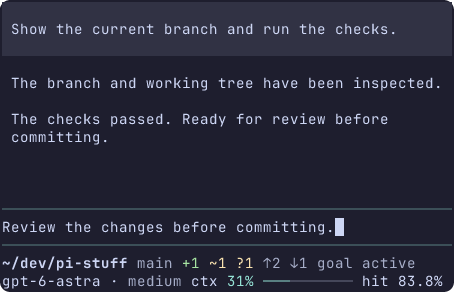
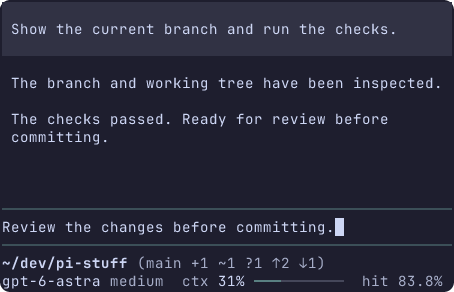
refactor(prototype): distill statusline into semantic groups

diff --git a/prototypes/statusline/footer.ts b/prototypes/statusline/footer.ts
@@ -11,27 +11,25 @@ export interface FooterState {
   running: boolean;
 }
 
-interface Field {
+interface Group {
   priority: number;
   text: string;
 }
 
-// Keep each optional field whole, then render selected fields in reading order.
-function fit(prefix: string, fields: Field[], width: number): string {
-  const selected = new Set<Field>();
-  let used = visibleWidth(prefix);
-  for (const field of [...fields].sort((a, b) => b.priority - a.priority)) {
-    const needed = visibleWidth(field.text) + (used > 0 ? 1 : 0);
-    if (used + needed > width) continue;
-    selected.add(field);
-    used += needed;
+const joinGroups = (groups: string[]) => groups.filter(Boolean).join('  ');
+
+// Drop complete secondary groups, without backfilling gaps with small fields.
+function fit(prefix: string, groups: Group[], width: number): string {
+  const selected = [...groups];
+  const line = () => joinGroups([prefix, ...selected.map(group => group.text)]);
+  while (visibleWidth(line()) > width && selected.length > 0) {
+    const lowest = Math.min(...selected.map(group => group.priority));
+    selected.splice(
+      selected.findIndex(group => group.priority === lowest),
+      1,
+    );
   }
-  return [
-    prefix,
-    ...fields.filter(field => selected.has(field)).map(field => field.text),
-  ]
-    .filter(Boolean)
-    .join(' ');
+  return line();
 }
 
 export function renderFooter(
@@ -54,71 +52,56 @@ export function renderFooter(
       : 'main';
   const changes =
     state.scenario === 'base'
-      ? theme.fg('success', 'clean')
-      : `${theme.fg('success', '+1')} ${theme.fg('warning', '~1')} ${state.scenario === 'long' ? theme.fg('error', '!1') : theme.fg('warning', '?1')} ${theme.fg('muted', '↑2 ↓1')}`;
-  const git = `${theme.fg('muted', branch)} ${changes}`;
+      ? theme.fg('muted', 'clean')
+      : theme.fg('muted', '+1 ~1 ') +
+        (state.scenario === 'long'
+          ? theme.fg('error', '!1')
+          : theme.fg('muted', '?1')) +
+        theme.fg('muted', ' ↑2 ↓1');
+  const bracket = (text: string) =>
+    theme.fg('muted', '(') + text + theme.fg('muted', ')');
+  const branchText = theme.fg('muted', branch);
+  const git = bracket(`${branchText} ${changes}`);
+  const names = bracket(branchText);
+  const counts = bracket(changes);
   const identitiesFit = visibleWidth(project) + 1 + visibleWidth(git) <= width;
-  const namesFit = visibleWidth(project) + 1 + visibleWidth(branch) <= width;
+  const namesFit = visibleWidth(project) + 1 + visibleWidth(names) <= width;
   const directoryWidth = namesFit
     ? width
     : Math.max(0, width - visibleWidth(changes) - 1);
   const directory = theme.bold(truncateToWidth(project, directoryWidth, '…'));
   const identity = truncateToWidth(
-    `${directory} ${identitiesFit ? git : namesFit ? theme.fg('muted', branch) : changes}`,
+    `${directory} ${identitiesFit ? git : namesFit ? names : changes}`,
     width,
     '…',
   );
-  // Keep directory and branch together when possible, moving counts before metrics.
   const gitOverflow = identitiesFit
     ? ''
     : namesFit
-      ? changes
-      : theme.fg('muted', truncateToWidth(branch, width, '…'));
-  const extras: Field[] =
-    state.scenario === 'base' || !identitiesFit
-      ? []
-      : [
-          {
-            priority: 20,
-            text: theme.fg(
-              'muted',
-              `goal ${state.running ? 'running' : 'active'}`,
-            ),
-          },
-          {
-            priority: 10,
-            text: theme.fg('muted', 'Codex used 5h 41% · week 63%'),
-          },
-        ];
-  const statistics: Field[] = [
-    {
-      priority: 80,
-      text: `${state.model} · ${theme.fg('muted', state.thinking)}`,
-    },
-    {
-      priority: 100,
-      text: `ctx ${theme.fg('thinkingMedium', `${context}%`)} ${meter}`,
-    },
-    {priority: 70, text: theme.fg('muted', '/272k')},
-    {priority: 30, text: theme.fg('muted', 'auto')},
-    {priority: 90, text: 'hit 83.8%'},
-    {
-      priority: 60,
-      text: theme.fg(
-        'muted',
-        `↑${119 + state.completed}k ↓${27 + state.completed}k`,
-      ),
-    },
-    {priority: 50, text: theme.fg('muted', 'R620k')},
-    {priority: 40, text: theme.fg('muted', 'W8k')},
-    {
-      priority: 20,
-      text: theme.fg(
-        'muted',
-        `est $${(0.91 + state.completed * 0.01).toFixed(3)} (sub)`,
-      ),
-    },
-    {priority: 10, text: theme.fg('muted', '(openai-codex)')},
+      ? counts
+      : truncateToWidth(names, width, '…');
+
+  const model = `${state.model} ${theme.fg('muted', state.thinking)}`;
+  const cache = theme.fg('muted', 'hit 83.8%');
+  const contextCore = `${theme.fg('muted', 'ctx')} ${context}% ${meter}`;
+  const contextFull = `${contextCore} ${theme.fg('muted', '/272k')}`;
+  const contextText =
+    visibleWidth(joinGroups([gitOverflow, model, contextFull, cache])) <= width
+      ? contextFull
+      : contextCore;
+  const groups: Group[] = [
+    {priority: 80, text: model},
+    {priority: 90, text: contextText},
+    {priority: 100, text: cache},
   ];
-  return [fit(identity, extras, width), fit(gitOverflow, statistics, width)];
+  if (state.scenario !== 'base' && identitiesFit) {
+    groups.push({
+      priority: 10,
+      text: theme.fg(
+        'muted',
+        `goal ${state.running ? 'running' : 'active'} · Codex used 5h 41% · week 63%`,
+      ),
+    });
+  }
+  return [identity, fit(gitOverflow, groups, width)];
 }

diff --git a/prototypes/statusline/capture.ts b/prototypes/statusline/capture.ts
@@ -32,9 +32,28 @@ async function capture(session: Session, name: string): Promise<string> {
   assert.ok(start >= 0, snapshot.text);
   const footer = lines.slice(start, start + 2).map(line => line.trimEnd());
   assert.equal(footer.length, 2);
+  assert.doesNotMatch(
+    footer[0] ?? '',
+    /goal|Codex|ctx|hit/u,
+    'Repository row stays focused',
+  );
+  assert.doesNotMatch(
+    footer.join(' '),
+    /R620k|W8k|est \$|openai-codex|auto/u,
+    'Routine detail fields do not return at wider widths',
+  );
+  assert.equal(
+    footer.join(' ').includes('goal'),
+    footer.join(' ').includes('Codex'),
+    'Extension group is shown or hidden together',
+  );
   for (const line of footer) {
     assert.ok(visibleWidth(line) <= snapshot.frame.cols);
-    assert.doesNotMatch(line, / {2}|\|/u, 'No padding or separator clutter');
+    assert.doesNotMatch(
+      line,
+      / {3}|\|/u,
+      'Group gaps stay bounded; no alignment padding',
+    );
     if (line.includes('ctx')) assert.match(line, /ctx 31% ━{10}/u);
   }
   assert.ok(

diff --git a/prototypes/statusline/README.md b/prototypes/statusline/README.md
@@ -25,19 +25,21 @@ bun run tui stop pi-statusline
 
 ## Layout and Git notation
 
-The footer always occupies two rows. At ordinary widths, row one starts with the bold full directory, followed by the complete branch and Git counters. Goal and quota follow when space allows. Row two holds the model/effort, continuous ten-cell context meter and capacity, auto-compaction indicator, cache hit, token/cache counts and subscription cost estimate. Only the directory is bold; state colors and a context accent provide the remaining hierarchy. Fields have one normal separating space, without alignment padding.
+Row one is only repository identity: a bold full directory and a parenthesized Git group. Ordinary Git counters are neutral; only conflicts use an error color. Row two has three primary groups: model/effort, context and cache hit. Two spaces separate groups; within each group there is one space. There is no right alignment or viewport-filling padding.
 
-Git samples distinguish `clean`, `+1` staged, `~1` modified, `?1` untracked, `!1` conflicted, `↑2` ahead and `↓1` behind. Zero counts are omitted. These are file counts and commit divergence, not line-change counts. The sample scenarios do not attempt to model every Git operation, such as rebase or detached HEAD.
+The previous always-visible input/output totals, cache-read/write counters, subscription cost estimate, provider and auto-compaction indicator were removed from this layout study. They competed with the three primary signals. Extra width no longer brings them back. This prototype adds no hidden details panel or new shortcut; native Pi behavior outside the footer is unchanged.
 
-When directory plus Git exceeds one row, the counters move before statistics on row two, preserving directory and branch together. If the two names themselves cannot share a row, the complete branch moves to row two and the directory/counters occupy row one. Goal and quota are hidden during this reflow. Optional statistics yield to these identities. Across the tested widths, even the long sample retains its entire directory, branch and every nonzero Git counter. If an individual branch exceeds the entire viewport, or the directory exceeds the space left by counters, an ellipsis marks unavoidable clipping. This is a physical limit, not a reason to hide the identity entirely.
+Goal and quota remain one secondary group on row two in the extended scenarios. The entire group yields before primary information and is suppressed when Git spans both rows. Secondary groups disappear in priority order, without smaller fields filling the gaps. Context capacity is retained only when the complete primary row fits; at 50 columns the ordinary sample still retains model/effort, the fixed ten-character continuous meter and hit.
 
-Optional fields are selected by fit and priority, then shown in a fixed reading order. Context and hit lead statistics priority, followed by model/effort, capacity, tokens, cache read/write, auto, cost and provider. Smaller fields can occupy space that a larger higher-priority field cannot use. Goal and quota never displace directory/Git. In the long sample at 50 columns, the meter/model are hidden while the full branch and hit remain; at 80 columns, the meter returns. The ordinary 50-column sample keeps model/effort, meter and hit together, hiding capacity. No third row, details entry or overflow count is added.
+Git samples distinguish `clean`, `+1` staged, `~1` modified, `?1` untracked, `!1` conflicted, `↑2` ahead and `↓1` behind. Zero counts are omitted. These are file counts and commit divergence, not line-change counts. The fixtures do not cover every Git operation, such as rebase or detached HEAD.
 
-中文: Footer 固定双行. 常规宽度第一行用加粗完整目录开头, 紧跟完整分支与 Git 计数, 有余地再放 goal 和额度. 第二行是模型/思考强度、十格宽的连续线条 ctx 进度条与容量、自动压缩标记、命中率、token/缓存读写和订阅估算费用. 仅目录加粗, 用状态色与 ctx 强调色建立其余层次, 字段间一个正常空格, 不用填充空白对齐.
+When the full Git group exceeds row one, counters move to row two before runtime groups. If directory and branch cannot fit together, row one holds the directory/counters and row two starts with the full branch. All tested 50–150-column cases retain full sample identities and every nonzero Git counter. Physically oversized individual names use an ellipsis; the prototype does not add a third row or an overflow count.
 
-中文: Git 中 `clean` 表示干净, `+1` 暂存、`~1` 修改、`?1` 未跟踪、`!1` 冲突、`↑2` 领先、`↓1` 落后. 零值省略, 数值分别是文件数与提交数, 不是代码行数. 样例未覆盖 rebase、detached HEAD 等所有 Git 操作状态. 目录和 Git 放不下一行时, 先把计数移至第二行的统计之前, 保留目录与分支相邻. 两个名称本身也无法同处一行时, 完整分支才移至第二行, 目录与计数留在第一行. 重排期间隐藏 goal/额度, 统计字段退让. 测试宽度下长样例的目录、分支和所有非零 Git 计数均完整保留. 单独分支超过整屏、或目录超过计数以外的空间时才用省略号截断, 不会整项消失.
+中文: 第一行只放仓库身份: 加粗完整目录和括号内的 Git 组. 普通 Git 计数统一中性色, 只有冲突使用错误色. 第二行以模型/强度、ctx、cache hit 三组为主. 组间两个空格, 组内一个空格, 不右对齐或填满终端宽度.
 
-中文: 可选统计按优先级和可用宽度选取, 按固定阅读顺序显示. 优先级依次为 ctx、hit、模型/强度、容量、token、缓存读写、auto、费用和 provider. 放不下的大字段不妨碍较小字段利用剩余空间. goal/额度不挤占目录/Git. 长样例在 50 列隐藏进度条和模型, 保留完整分支及 hit; 80 列恢复进度条. 普通样例在 50 列保留模型/强度、进度条和 hit, 隐藏容量. 不加第三行、详情入口或溢出计数.
+中文: 取消常驻 input/output 总量、缓存读写明细、订阅费用估算、provider 和 auto 标记, 避免它们与主要信息争夺注意力. 宽屏不会再把这些字段加回来. 原型不新增详情面板或快捷键, footer 之外仍使用原生 Pi 行为. 扩展场景中的 goal/额度合为第二行的一个次要组, 比主要信息更早整组隐藏; Git 占两行时不显示扩展组. 按优先级删除整组, 不用小字段填空. ctx 容量只在主要信息全部放得下时显示; 普通 50 列仍保留模型/强度、固定十字符连续进度条和 hit.
+
+中文: Git 中 `clean` 表示干净, `+1` 暂存、`~1` 修改、`?1` 未跟踪、`!1` 冲突、`↑2` 领先、`↓1` 落后. 零值省略, 数值分别是文件数和提交数, 不是代码行数. 样例不覆盖 rebase、detached HEAD 等所有 Git 操作. Git 组放不下第一行时, 计数移至第二行运行信息之前. 目录和分支也放不下时, 第一行保留目录/计数, 第二行以完整分支开头. 测试的 50–150 列内保留完整样例身份与所有非零计数; 名称本身超过物理空间才显示省略号, 不加第三行或溢出计数.
 
 ## Evidence and limits
 
@@ -46,7 +48,7 @@ The PNGs are actual headless Terminal Control captures at 150/100/80/50 columns 
 ![Light, extended, 150 columns](captures/catppuccin-latte-extended-150.png)
 ![Dark, long directory and branch, 50 columns](captures/catppuccin-mocha-long-50.png)
 
-The one-shot driver covers each theme/scenario at 150 → 100 → 80 → 50 → 150, then editing, submit, cancellation and resubmit. Assertions check two rows, full sample identities and Git states at every width, continuous meter and hit when space allows, normal spacing and restoration. See [verification.txt](captures/verification.txt).
+The one-shot driver covers each theme/scenario at 150 → 100 → 80 → 50 → 150, then editing, submit, cancellation and resubmit. Assertions check two rows, full sample identities and Git states at every width, continuous meter and hit when space allows, bounded group spacing, whole extension groups, absence of removed details and restoration. See [verification.txt](captures/verification.txt).
 
 ```sh
 PI_TEST_HOST=/opt/bin/pi bun prototypes/statusline/capture.ts /tmp/pi-statusline-captures
@@ -56,7 +58,7 @@ git diff --check
 
 Environment: Bun 1.4.0, compiled Pi 0.87.1, Terminal Control 1.2.1, repository API declarations at Pi 0.85.1. Temporary settings/sessions are cleaned up. The local provider and all displayed directory/Git/account/usage data are deterministic samples; no Git status, account quota, real model request or check command is executed. The native editor, message rendering, streaming, cancellation and resize are real Pi behavior. The provider uses Pi's [documented extension API](https://github.com/earendil-works/pi/blob/v0.85.1/packages/coding-agent/docs/custom-provider.md).
 
-中文: PNG 来自真实无头 Terminal Control, 包含完整 16 行终端视口, 覆盖明暗主题和 150/100/80/50 列, 字体栈见上. 它们不是裁剪的设计图或原生 Ghostty/合成器截图. 一次性驱动验证各场景的缩窄与恢复、编辑、提交、取消和再次提交, 检查双行、完整目录/分支/Git 计数、可容纳时的连续进度条/hit、正常空格和恢复结果. 复现命令及版本见上. 临时设置/会话会清理. 所有目录、Git、账号与用量均为确定样例, 不查询真实状态、不调用模型或检查命令; 编辑器、消息、流式输出、取消和缩放使用原生 Pi.
+中文: PNG 来自真实无头 Terminal Control, 包含完整 16 行终端视口, 覆盖明暗主题和 150/100/80/50 列, 字体栈见上. 它们不是裁剪的设计图或原生 Ghostty/合成器截图. 一次性驱动验证各场景的缩窄与恢复、编辑、提交、取消和再次提交, 检查双行、完整目录/分支/Git 计数、可容纳时的连续进度条/hit、有限组间距、扩展组整体显隐、无已移除明细及恢复结果. 复现命令及版本见上. 临时设置/会话会清理. 所有目录、Git、账号与用量均为确定样例, 不查询真实状态、不调用模型或检查命令; 编辑器、消息、流式输出、取消和缩放使用原生 Pi.
 
 ## Tracking
 
